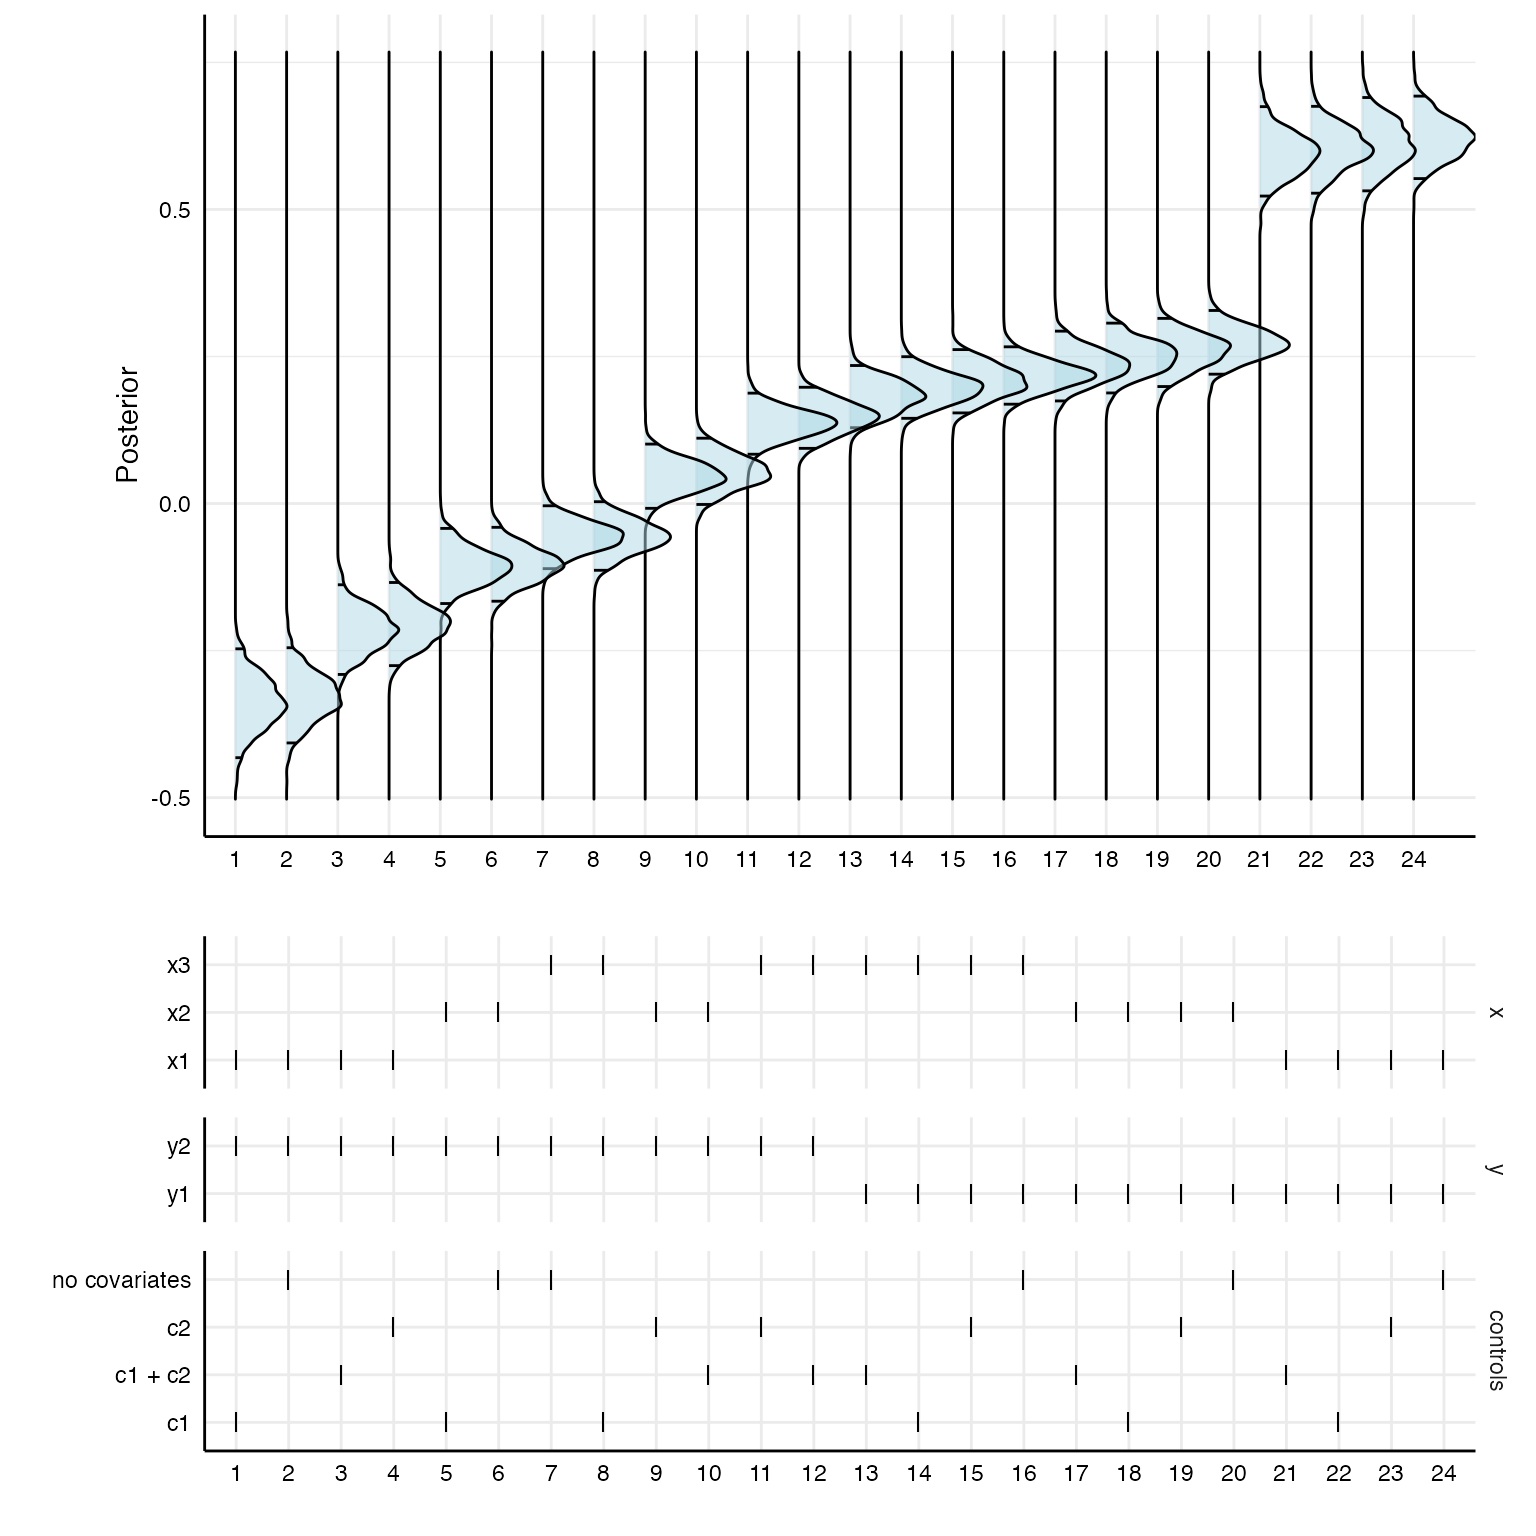
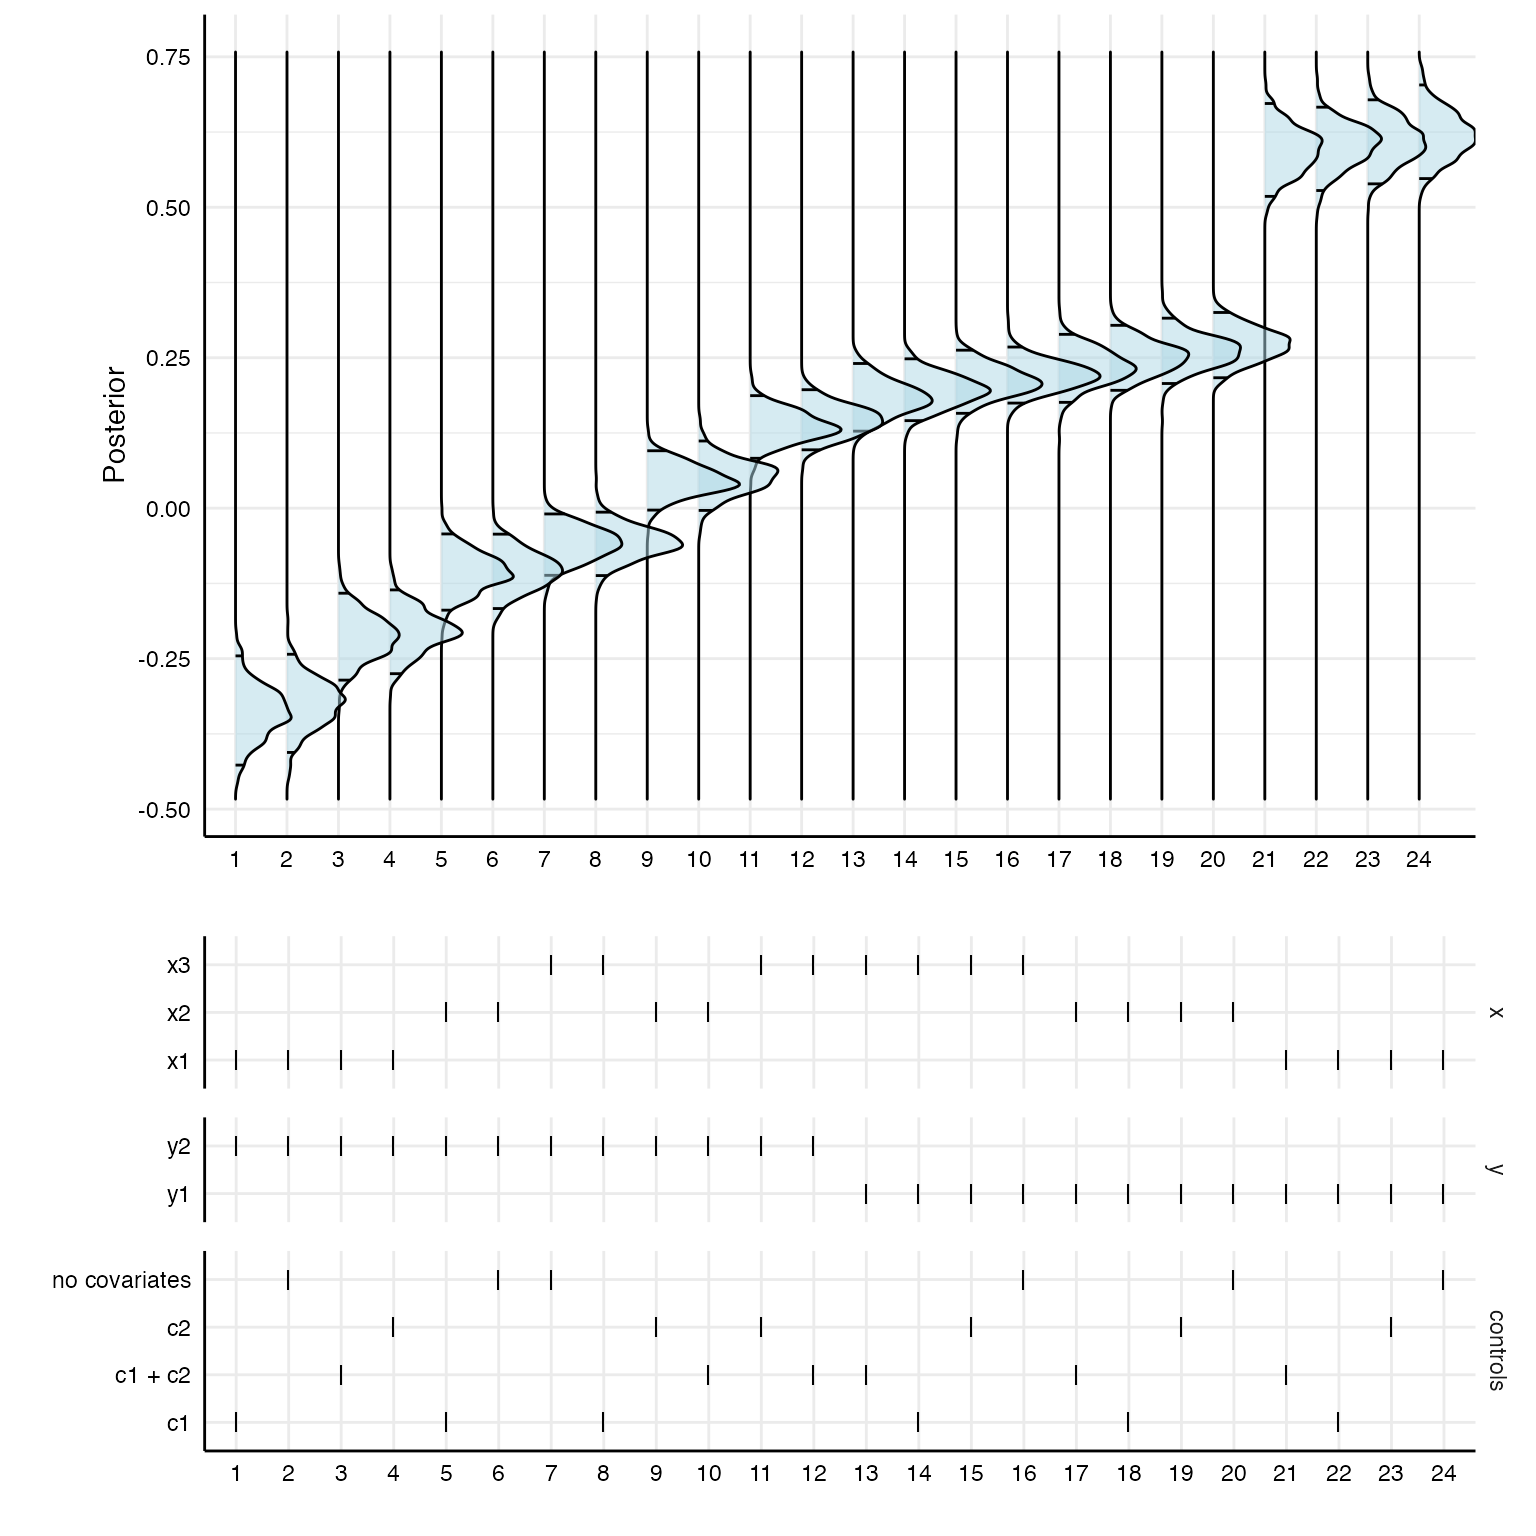
Update website.

diff --git a/docs/articles/parallel-bayesian-models.html b/docs/articles/parallel-bayesian-models.html
@@ -170,6 +170,7 @@ aspects of the Bayesian models.</p>
 <span>      silent <span class="op">=</span> <span class="fl">2</span>,   <span class="co"># Don't print progress</span></span>
 <span>      refresh <span class="op">=</span> <span class="fl">0</span>,  <span class="co"># Remove message (not necessary, but nicer in the output)</span></span>
 <span>      cores <span class="op">=</span> <span class="fl">1</span>,    <span class="co"># set cores to 1 to not interfere with `furrr`</span></span>
+<span>      iter <span class="op">=</span> <span class="fl">1000</span>,</span>
 <span>      chains <span class="op">=</span> <span class="fl">1</span><span class="op">)</span>   <span class="co"># I just set this here to reduce computing time, can be higher, of course</span></span>
 <span><span class="op">}</span></span>
 <span></span>
@@ -205,7 +206,7 @@ aspects of the Bayesian models.</p>
 <span><span class="co">#&gt; Function used to extract parameters:</span></span>
 <span><span class="co">#&gt; </span></span>
 <span><span class="co">#&gt;   function(x) broom::tidy(x, conf.int = TRUE)</span></span>
-<span><span class="co">#&gt; &lt;environment: 0x7fec5988b7b0&gt;</span></span>
+<span><span class="co">#&gt; &lt;environment: 0x7f8eb9a4b900&gt;</span></span>
 <span><span class="co">#&gt; </span></span>
 <span><span class="co">#&gt; </span></span>
 <span><span class="co">#&gt; Head of specifications table (first 6 rows):</span></span>
@@ -231,14 +232,14 @@ want to use. Here, I am using 4 cores.</p>
 <span><span class="va">opts</span> <span class="op">&lt;-</span> <span class="fu"><a href="https://furrr.futureverse.org/reference/furrr_options.html" class="external-link">furrr_options</a></span><span class="op">(</span></span>
 <span>  seed <span class="op">=</span> <span class="cn">TRUE</span>,</span>
 <span>  globals <span class="op">=</span> <span class="fu"><a href="https://rdrr.io/r/base/list.html" class="external-link">list</a></span><span class="op">(</span>brm_new <span class="op">=</span> <span class="va">brm_new</span>, glance_brm <span class="op">=</span> <span class="va">glance_brm</span><span class="op">)</span>,</span>
-<span>  packages <span class="op">=</span> <span class="fu"><a href="https://rdrr.io/r/base/c.html" class="external-link">c</a></span><span class="op">(</span><span class="st">"brms"</span>, <span class="st">"broom.mixed"</span>, <span class="st">"broom"</span><span class="op">)</span></span>
+<span>  packages <span class="op">=</span> <span class="fu"><a href="https://rdrr.io/r/base/c.html" class="external-link">c</a></span><span class="op">(</span><span class="st">"brms"</span>, <span class="st">"broom.mixed"</span>, <span class="st">"broom"</span>, <span class="st">"rstanarm"</span><span class="op">)</span></span>
 <span><span class="op">)</span></span>
 <span></span>
 <span><span class="co"># Specify future session</span></span>
 <span><span class="fu"><a href="https://future.futureverse.org/reference/plan.html" class="external-link">plan</a></span><span class="op">(</span><span class="va">multisession</span>, workers <span class="op">=</span> <span class="fl">4</span><span class="op">)</span></span>
 <span></span>
 <span><span class="co"># Run analysis with furrr_options</span></span>
-<span><span class="va">results</span> <span class="op">&lt;-</span> <span class="fu"><a href="../reference/specr.html">specr</a></span><span class="op">(</span><span class="va">specs</span>, .options <span class="op">=</span> <span class="va">opts</span>, .progress <span class="op">=</span> <span class="cn">TRUE</span><span class="op">)</span></span></code></pre></div>
+<span><span class="va">results</span> <span class="op">&lt;-</span> <span class="fu"><a href="../reference/specr.html">specr</a></span><span class="op">(</span><span class="va">specs</span>, .options <span class="op">=</span> <span class="va">opts</span><span class="op">)</span></span></code></pre></div>
 <p>Now we can again summarize and plot our results.</p>
 <div class="sourceCode" id="cb4"><pre class="downlit sourceCode r">
 <code class="sourceCode R"><span><span class="co"># Summarize and plot results</span></span>
@@ -249,7 +250,7 @@ want to use. Here, I am using 4 cores.</p>
 <span><span class="co">#&gt; </span></span>
 <span><span class="co">#&gt;   Class:                          specr.object -- version: 1.0.0 </span></span>
 <span><span class="co">#&gt;   Cores used:                     4 </span></span>
-<span><span class="co">#&gt;   Duration of fitting process:    3.828 sec elapsed </span></span>
+<span><span class="co">#&gt;   Duration of fitting process:    3.584 sec elapsed </span></span>
 <span><span class="co">#&gt;   Number of specifications:       24 </span></span>
 <span><span class="co">#&gt; </span></span>
 <span><span class="co">#&gt; Descriptive summary of the specification curve:</span></span>
@@ -270,8 +271,8 @@ want to use. Here, I am using 4 cores.</p>
 <span><span class="co">#&gt; <span style="color: #BCBCBC;">1</span> x1    y1    brm_new no covari… all     y1 ~ x… fixed  cond      <span style="color: #BB0000;">NA</span>        0.62</span></span>
 <span><span class="co">#&gt; <span style="color: #BCBCBC;">2</span> x1    y1    brm_new c1         all     y1 ~ x… fixed  cond      <span style="color: #BB0000;">NA</span>        0.6 </span></span>
 <span><span class="co">#&gt; <span style="color: #BCBCBC;">3</span> x1    y1    brm_new c2         all     y1 ~ x… fixed  cond      <span style="color: #BB0000;">NA</span>        0.61</span></span>
-<span><span class="co">#&gt; <span style="color: #BCBCBC;">4</span> x1    y1    brm_new c1 + c2    all     y1 ~ x… fixed  cond      <span style="color: #BB0000;">NA</span>        0.6 </span></span>
-<span><span class="co">#&gt; <span style="color: #BCBCBC;">5</span> x1    y2    brm_new no covari… all     y2 ~ x… fixed  cond      <span style="color: #BB0000;">NA</span>       -<span style="color: #BB0000;">0.33</span></span></span>
+<span><span class="co">#&gt; <span style="color: #BCBCBC;">4</span> x1    y1    brm_new c1 + c2    all     y1 ~ x… fixed  cond      <span style="color: #BB0000;">NA</span>        0.59</span></span>
+<span><span class="co">#&gt; <span style="color: #BCBCBC;">5</span> x1    y2    brm_new no covari… all     y2 ~ x… fixed  cond      <span style="color: #BB0000;">NA</span>       -<span style="color: #BB0000;">0.32</span></span></span>
 <span><span class="co">#&gt; <span style="color: #BCBCBC;">6</span> x1    y2    brm_new c1         all     y2 ~ x… fixed  cond      <span style="color: #BB0000;">NA</span>       -<span style="color: #BB0000;">0.34</span></span></span>
 <span><span class="co">#&gt; <span style="color: #949494;"># … with 8 more variables: std.error &lt;dbl&gt;, conf.low &lt;dbl&gt;, conf.high &lt;dbl&gt;,</span></span></span>
 <span><span class="co">#&gt; <span style="color: #949494;">#   fit_algorithm &lt;chr&gt;, fit_pss &lt;dbl&gt;, fit_nobs &lt;dbl&gt;, fit_sigma &lt;dbl&gt;,</span></span></span>
@@ -298,17 +299,17 @@ explore specific models using the <code>pull</code> function.</p>
 <span><span class="co">#&gt;   Links: mu = identity; sigma = identity </span></span>
 <span><span class="co">#&gt; Formula: y1 ~ x1 + 1 </span></span>
 <span><span class="co">#&gt;    Data: data (Number of observations: 1000) </span></span>
-<span><span class="co">#&gt;   Draws: 1 chains, each with iter = 2000; warmup = 1000; thin = 1;</span></span>
-<span><span class="co">#&gt;          total post-warmup draws = 1000</span></span>
+<span><span class="co">#&gt;   Draws: 1 chains, each with iter = 1000; warmup = 500; thin = 1;</span></span>
+<span><span class="co">#&gt;          total post-warmup draws = 500</span></span>
 <span><span class="co">#&gt; </span></span>
 <span><span class="co">#&gt; Population-Level Effects: </span></span>
 <span><span class="co">#&gt;           Estimate Est.Error l-95% CI u-95% CI Rhat Bulk_ESS Tail_ESS</span></span>
-<span><span class="co">#&gt; Intercept    -1.09      0.04    -1.16    -1.02 1.01     1031      755</span></span>
-<span><span class="co">#&gt; x1            0.62      0.04     0.55     0.69 1.01      959      698</span></span>
+<span><span class="co">#&gt; Intercept    -1.09      0.04    -1.16    -1.02 1.01      386      333</span></span>
+<span><span class="co">#&gt; x1            0.62      0.04     0.55     0.70 1.00      386      309</span></span>
 <span><span class="co">#&gt; </span></span>
 <span><span class="co">#&gt; Family Specific Parameters: </span></span>
 <span><span class="co">#&gt;       Estimate Est.Error l-95% CI u-95% CI Rhat Bulk_ESS Tail_ESS</span></span>
-<span><span class="co">#&gt; sigma     1.14      0.03     1.09     1.19 1.00     1040      761</span></span>
+<span><span class="co">#&gt; sigma     1.13      0.02     1.09     1.18 1.00      457      304</span></span>
 <span><span class="co">#&gt; </span></span>
 <span><span class="co">#&gt; Draws were sampled using sampling(NUTS). For each parameter, Bulk_ESS</span></span>
 <span><span class="co">#&gt; and Tail_ESS are effective sample size measures, and Rhat is the potential</span></span>
@@ -329,16 +330,16 @@ frame.</p>
 <span><span class="co">#&gt; <span style="color: #949494;"># A tibble: 10 × 3</span></span></span>
 <span><span class="co">#&gt;    id    key   value</span></span>
 <span><span class="co">#&gt;    <span style="color: #949494; font-style: italic;">&lt;chr&gt;</span> <span style="color: #949494; font-style: italic;">&lt;chr&gt;</span> <span style="color: #949494; font-style: italic;">&lt;dbl&gt;</span></span></span>
-<span><span class="co">#&gt; <span style="color: #BCBCBC;"> 1</span> 1     b_x1  0.631</span></span>
-<span><span class="co">#&gt; <span style="color: #BCBCBC;"> 2</span> 1     b_x1  0.586</span></span>
-<span><span class="co">#&gt; <span style="color: #BCBCBC;"> 3</span> 1     b_x1  0.571</span></span>
-<span><span class="co">#&gt; <span style="color: #BCBCBC;"> 4</span> 1     b_x1  0.553</span></span>
-<span><span class="co">#&gt; <span style="color: #BCBCBC;"> 5</span> 1     b_x1  0.659</span></span>
-<span><span class="co">#&gt; <span style="color: #BCBCBC;"> 6</span> 1     b_x1  0.584</span></span>
-<span><span class="co">#&gt; <span style="color: #BCBCBC;"> 7</span> 1     b_x1  0.626</span></span>
-<span><span class="co">#&gt; <span style="color: #BCBCBC;"> 8</span> 1     b_x1  0.564</span></span>
-<span><span class="co">#&gt; <span style="color: #BCBCBC;"> 9</span> 1     b_x1  0.651</span></span>
-<span><span class="co">#&gt; <span style="color: #BCBCBC;">10</span> 1     b_x1  0.537</span></span></code></pre></div>
+<span><span class="co">#&gt; <span style="color: #BCBCBC;"> 1</span> 1     b_x1  0.607</span></span>
+<span><span class="co">#&gt; <span style="color: #BCBCBC;"> 2</span> 1     b_x1  0.708</span></span>
+<span><span class="co">#&gt; <span style="color: #BCBCBC;"> 3</span> 1     b_x1  0.563</span></span>
+<span><span class="co">#&gt; <span style="color: #BCBCBC;"> 4</span> 1     b_x1  0.591</span></span>
+<span><span class="co">#&gt; <span style="color: #BCBCBC;"> 5</span> 1     b_x1  0.592</span></span>
+<span><span class="co">#&gt; <span style="color: #BCBCBC;"> 6</span> 1     b_x1  0.598</span></span>
+<span><span class="co">#&gt; <span style="color: #BCBCBC;"> 7</span> 1     b_x1  0.609</span></span>
+<span><span class="co">#&gt; <span style="color: #BCBCBC;"> 8</span> 1     b_x1  0.620</span></span>
+<span><span class="co">#&gt; <span style="color: #BCBCBC;"> 9</span> 1     b_x1  0.576</span></span>
+<span><span class="co">#&gt; <span style="color: #BCBCBC;">10</span> 1     b_x1  0.580</span></span></code></pre></div>
 </div>
 <div class="section level2">
 <h2 id="plotting-posterior-distributions-for-all-specifications">Plotting posterior distributions for all specifications<a class="anchor" aria-label="anchor" href="#plotting-posterior-distributions-for-all-specifications"></a>
